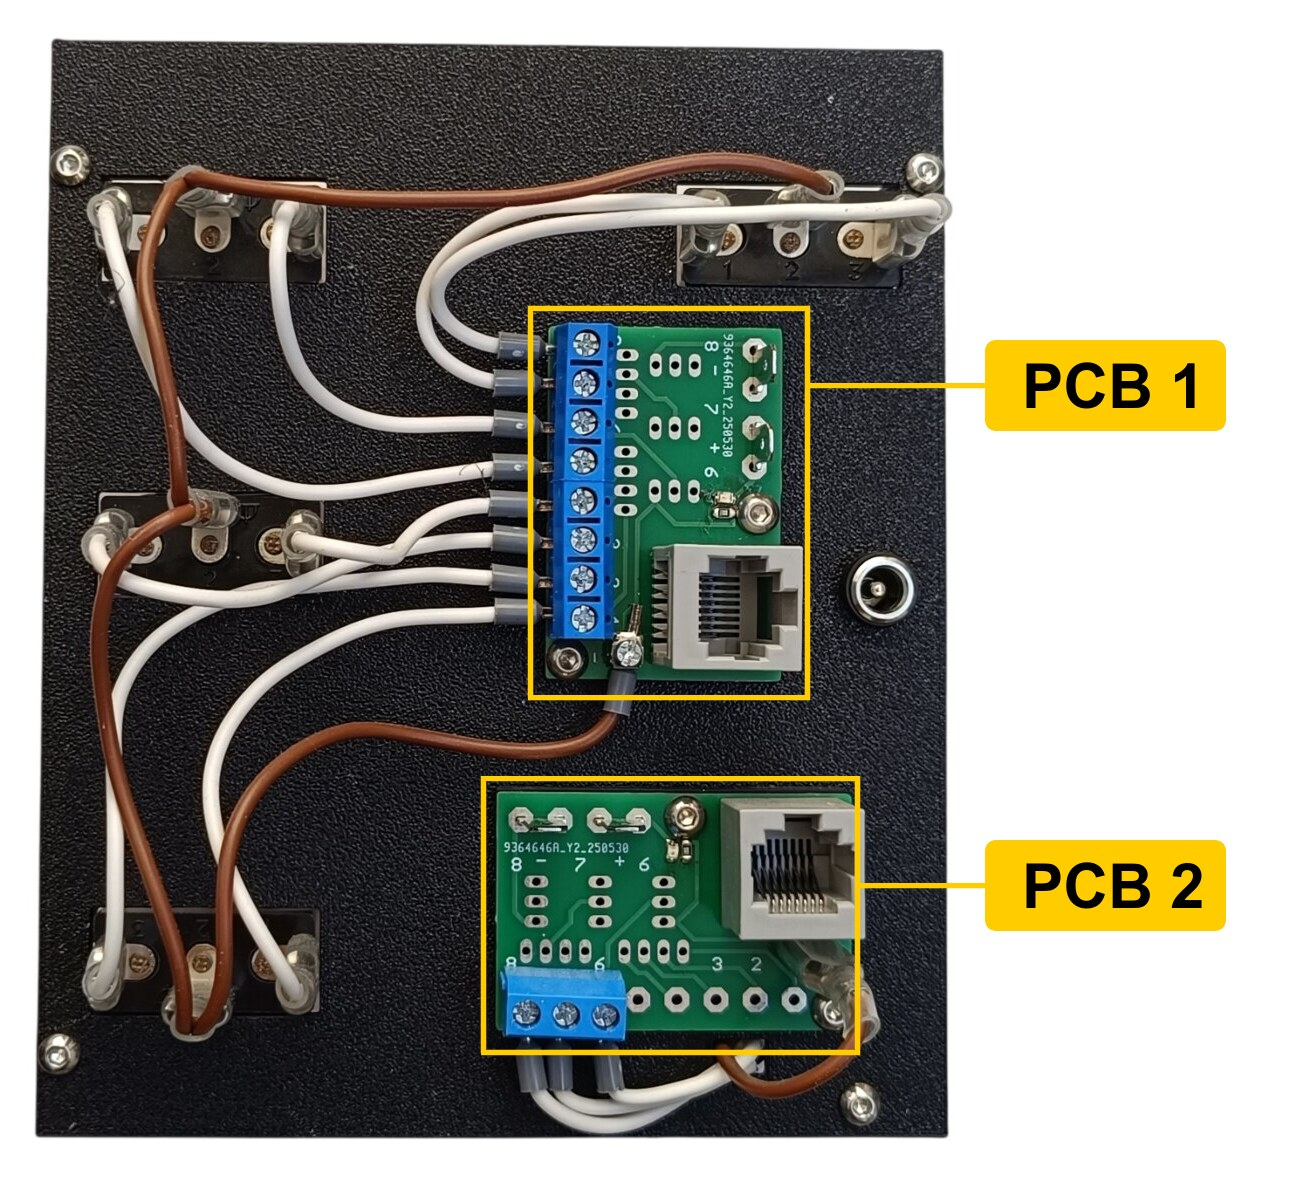
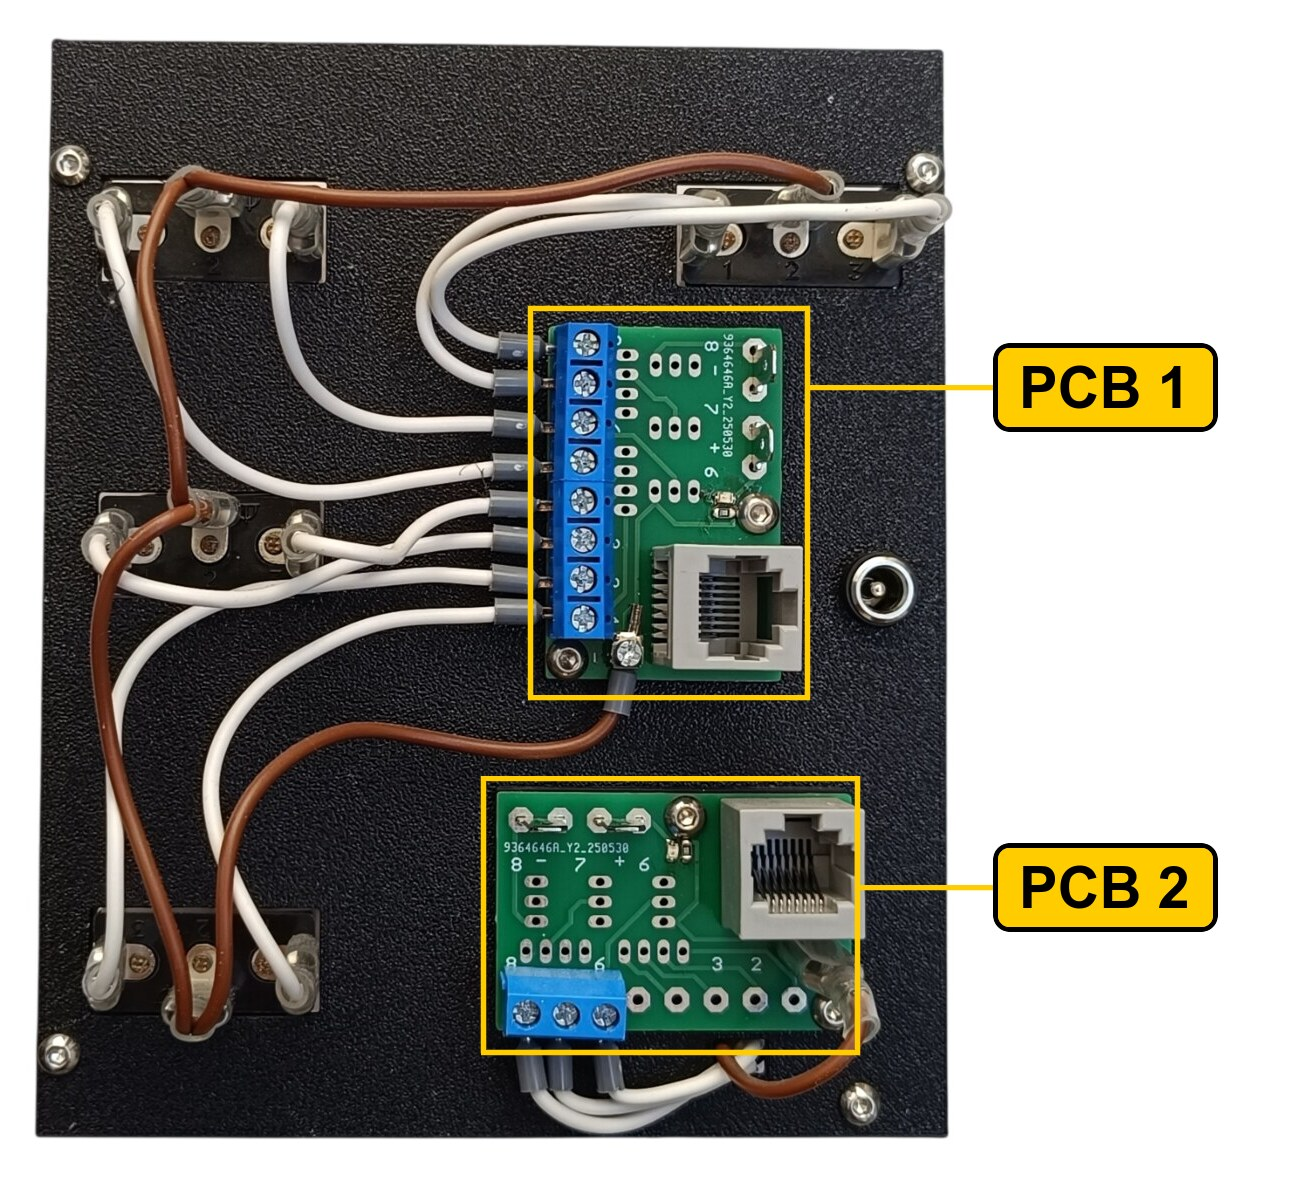
docs: fix the PCB labels and the ground returns on the Navigation Panel wiring

Changed region(s): [[0.6822, 0.6783, 0.9612, 0.8017], [0.6202, 0.2775, 0.9612, 0.37]]

diff --git a/docs/models/04-navigation-panel.md b/docs/models/04-navigation-panel.md
@@ -115,7 +115,7 @@ The socket labels **D0–D6**, **A1** and **A2** are silkscreened on the hub shi
 
 <img src="../../images/panels/04-navigation-wiring-pcbs.jpg" alt="Rear of the panel with the two PCBs marked" width="700">
 
-The rear of the panel. **PCB 1** is the upper board, the one with all eight screw terminals fitted; **PCB 2** is the lower board with only three.
+The rear of the panel. **PCB 1** is the one with all eight screw terminals fitted; **PCB 2** has only three.
 
 ### PCB 1 — socket A2 on Overhead_1b
 
@@ -132,11 +132,11 @@ The four toggle switches. Each of them is a three-position ON/OFF/ON switch, so 
 | 7 | VHF NAV — BOTH ON 1 |
 | 8 | VHF NAV — BOTH ON 2 |
 
-The pairs follow the switches up the panel: CONTROL PANEL at the bottom, then FMC, then IRS and VHF NAV in the top row.
+**The four toggle switches share a single ground return.** Each switch takes one of its terminals to its own pin on this PCB. The opposite terminals are commoned — daisy-chained from one switch to the next — and the chain ends at a **-** (ground) contact on this board.
 
 ### PCB 2 — socket A1 on Overhead_1b
 
-The SOURCE rotary switch, at the bottom left of the panel. All three of its positions are wired, each to its own pin — unlike the toggle switches, one of them is always connected.
+The SOURCE rotary switch, at the bottom left of the panel. All three of its positions are wired, each to its own pin.
 
 | Pin | Switch |
 |---:|---|
@@ -146,7 +146,7 @@ The SOURCE rotary switch, at the bottom left of the panel. All three of its posi
 
 Pins 1 to 5 are not used.
 
-**The five switches share a single ground return.** Each switch takes one of its terminals to its own pin. The opposite terminals are commoned — daisy-chained from one switch to the next — and the chain ends at a **-** (ground) contact.
+The rotary switch does not share the ground chain of the toggle switches: its common terminal goes to a **-** (ground) contact on this board.
 
 ---
 
